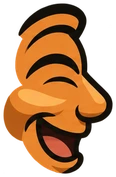
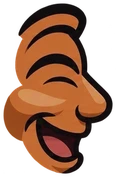
Jummah Dash: Lakri Man browner, triple jump with flips, long bat (BAT button smashes zappers, home-runs rockets, knocks out lasers), bat snaps after 6 hits, he turns back after 24 s
Claude-Session: https://claude.ai/code/session_01YJ1z4udzgwtjsqdwzKAzGp

diff --git a/jummahdash/demo/game.js b/jummahdash/demo/game.js
@@ -1506,16 +1506,19 @@ function vehUpdate(dt) {
   }
   if (veh.k === 'logman') {   // Lakri Man: tap = big leap, tap again in the air = flip leap, hold in the air = windmill arms slow the fall; zappers can't hurt wood
     const press = holding && !veh.held; veh.held = holding; const onG = hero.y >= FLOOR - .5; veh.sq = Math.max(0, (veh.sq || 0) - dt * 5);
-    if (veh.morph < 1) { veh.morph = Math.min(1, veh.morph + dt / 1.35); if (veh.morph >= 1) { veh.face = 'grin'; veh.sq = .8; shake = Math.max(shake, .25); } }
+    if (veh.morph < 1) { veh.morph = Math.min(1, veh.morph + dt / 1.35); if (veh.morph >= 1) { veh.face = 'grin'; veh.sq = .8; shake = Math.max(shake, .25); veh.life = LOG_LIFE; veh.batHP = BAT_HP; veh.swT = -1; } }
+    if (veh.morph >= 1) { veh.life -= dt; if (veh.life < 5 && Math.floor(veh.life * 4) !== Math.floor((veh.life + dt) * 4)) { tone(220 + Math.random() * 80, .07, 'square', .03, .6, MIX && MIX.fx); for (let i = 0; i < 4; i++) sparks.push({ x: hero.x + (Math.random() - .5) * 20, y: hero.y - Math.random() * 70, vx: (Math.random() - .5) * 120, vy: -Math.random() * 120, l: .4, c: '#a8622a' }); if (veh.life < 3) veh.face = 'scared'; }   // owner 23 Nov: he can't stay a log for ever: he starts creaking and cracking, then turns back
+      if (veh.life <= 0) { logRevert(); return; }
+      batTick(dt); }
     else {
-      if (press && onG) { hero.vy = -720; veh.dj = 0; veh.sq = -.6; RUN.jumps++; SFX.whoosh(); tone(220, .12, 'square', .05, 1.6); veh.face = 'laugh'; for (let i = 0; i < 8; i++) dust.push({ x: hero.x - 20 + Math.random() * 40, y: FLOOR, vx: -60 - Math.random() * 90, vy: -Math.random() * 40, r: 3, l: .5 }); }
-      else if (press && !onG && !veh.dj) { veh.dj = 1; hero.vy = Math.min(hero.vy, 0) - 620; veh.flipT = 0; SFX.whoosh(); tone(330, .12, 'square', .05, 1.8); veh.face = 'grin'; } }
-    if (veh.flipT !== undefined) { veh.flipT += dt; if (veh.flipT > .5) veh.flipT = undefined; }
+      if (press && onG) { hero.vy = -720; veh.jn = 1; veh.sq = -.6; RUN.jumps++; SFX.whoosh(); tone(220, .12, 'square', .05, 1.6); veh.face = 'laugh'; for (let i = 0; i < 8; i++) dust.push({ x: hero.x - 20 + Math.random() * 40, y: FLOOR, vx: -60 - Math.random() * 90, vy: -Math.random() * 40, r: 3, l: .5 }); }
+      else if (press && !onG && (veh.jn || 1) < 3) { veh.jn = (veh.jn || 1) + 1; const big = veh.jn === 3; hero.vy = Math.min(hero.vy, 0) - (big ? 560 : 620); veh.flipT = 0; veh.flipD = big ? .62 : .45; veh.flipN = big ? 2 : 1; SFX.whoosh(); tone(big ? 440 : 330, .12, 'square', .05, 1.8); veh.face = big ? 'laugh' : 'grin'; rings.push({ x: hero.x, y: hero.y - 40, t: 0 }); if (big) pops.push({ x: hero.x + 20, y: hero.y - 120, txt: 'TRIPLE!', col: '#ffb04a', t: 0 }); } }   // owner 23 Nov: jump, flip, then a double flip
+    if (veh.flipT !== undefined) { veh.flipT += dt; if (veh.flipT > (veh.flipD || .45)) veh.flipT = undefined; }
     veh.spin = !onG && holding && veh.morph >= 1 && hero.vy > -100 ? (veh.spin || 0) + dt * 22 : 0;
     let g = 1900; if (veh.spin) { g = 600; if (hero.vy > 140) hero.vy = 140; if (Math.random() < dt * 8) tone(160 + Math.random() * 40, .05, 'triangle', .02, 1.4, MIX && MIX.fx); }
     hero.vy += g * dt; hero.y += hero.vy * dt; if (hero.y - 90 < CEIL) { hero.y = CEIL + 90; hero.vy = Math.max(0, hero.vy); }
     if (hero.y >= FLOOR) { if (hero.vy > 250 && veh.morph >= 1) { veh.sq = Math.min(1, hero.vy / 800); shake = Math.max(shake, .1); tone(110, .14, 'triangle', .08); veh.face = 'smile'; for (let i = 0; i < 8; i++) dust.push({ x: hero.x + (Math.random() - .5) * 50, y: FLOOR, vx: (Math.random() - .5) * 160, vy: -Math.random() * 40, r: 3, l: .5 }); }
-      hero.y = FLOOR; hero.vy = 0; veh.dj = 0; }
+      hero.y = FLOOR; hero.vy = 0; veh.jn = 0; }
     if (onG) veh.ph += dt * (speed / 26); hero.rot = 0; veh.ft = (veh.ft || 0) - dt; if (veh.ft <= 0 && onG && veh.morph >= 1) { veh.ft = 2 + Math.random() * 2; veh.face = ['smile', 'grin', 'smug', 'smile'][Math.random() * 4 | 0]; }
     return;
   }
@@ -1679,13 +1682,31 @@ function vehCrash() {
   pops.push({ x: hero.x, y: hero.y - 70, txt: { tuktuk: 'TUK-TUK GONE!', carpet: 'CARPET GONE!', kabootar: 'KABOOTAR FLEW OFF!', sandals: 'SANDALS SNAPPED!', mech: 'MECH WRECKED!', logman: 'SPLINTERED!' }[k], col: '#ffd75a', t: 0 });
 }
 const LMS = .096;   // Lakri Man scale: a bit taller than the hero (owner 23 Nov)
+const LOG_LIFE = 24, BAT_HP = 6, BAT_CD = .45;
+function batAngle() { if (!veh || (veh.swT == null) || veh.swT < 0) return null; const k = veh.swT / .34; if (k < .25) return 2.4 + k / .25 * .5; const f = (k - .25) / .45; if (f < 1) return 2.9 - f * f * 4.5; return -1.6 + Math.min(1, (k - .7) / .3) * 1.6; }   // wind up behind the head, whip round, follow through
+function batSwing() { if (!veh || veh.k !== 'logman' || veh.morph < 1 || (veh.batHP || 0) <= 0 || state !== 'play' || paused || (veh.batCD || 0) > 0) return; veh.swT = 0; veh.batCD = BAT_CD; veh.hitDone = 0; veh.face = 'angry'; SFX.whoosh(); tone(200, .1, 'triangle', .04, 2.4, MIX && MIX.fx); }
+function batTick(dt) { if (veh.batCD > 0) veh.batCD -= dt; if (veh.swT < 0) return; veh.swT += dt; if (veh.swT > .34) { veh.swT = -1; return; }
+  if (veh.swT < .08 || veh.swT > .26) return;   // the bat's sweet spot is on the forward whip
+  const q = LMS * (window.LOGMAN_H || 685) / 685, bx0 = hero.x - 6, bx1 = hero.x + 95 * q, by0 = hero.y - 105 * q, by1 = hero.y - 8;
+  const inBox = (x, y, m = 0) => x > bx0 - m && x < bx1 + m && y > by0 - m && y < by1 + m; let hit = 0;
+  obs.forEach(o => { if (o.honk) return;
+    if (o.type === 'zap') { const ca = Math.cos(o.ang), sa = Math.sin(o.ang), hl = o.len / 2; let near = false; for (let u = -1; u <= 1; u += .25) if (inBox(o.x + ca * hl * u, o.y + sa * hl * u, 12)) near = true; if (near) { o.honk = 1; wreckZap(o); batHit(o.x, o.y, 'SMASHED!'); hit++; } }
+    else if (o.type === 'rocket' && o.v && !o.defl && inBox(o.x, o.y, 22)) { o.defl = 1; o.v = -(speed + 560); o.vy = -260 - Math.random() * 160; o.rot = Math.PI; o.spin = (Math.random() < .5 ? -1 : 1) * (7 + Math.random() * 4); batHit(o.x, o.y, 'HOME RUN!'); hit++; }
+    else if (o.type === 'laser' && (o.ph === 'fire' || o.ph === 'warn') && o.y > by0 - 10 && o.y < by1 + 10) { o.honk = 1; wreckLaser(o); batHit(hero.x + 60 * q, o.y, 'BATTED!'); hit++; } });
+  if (hit) { veh.batHP -= 1; if (veh.batHP <= 0) { pops.push({ x: hero.x + 30, y: hero.y - 140, txt: 'BAT SNAPPED!', col: '#ff8a4a', t: 0 }); tone(300, .2, 'square', .06, .4, MIX && MIX.fx); POL.chunks(['#c06a2c', '#8a4a1c', '#e09050']); veh.face = 'sad'; } } }
+function batHit(x, y, txt) { veh.face = 'grin'; shake = Math.max(shake, .14); HITT = .06; tone(180, .12, 'square', .07, .5, MIX && MIX.fx); tone(900, .06, 'square', .05, .6, MIX && MIX.fx); hornPay(x, y, txt);
+  for (let i = 0; i < 14; i++) sparks.push({ x, y, vx: 80 + Math.random() * 280, vy: (Math.random() - .5) * 260, l: .4, c: ['#ffffff', '#ffd75a', '#c06a2c'][i % 3] }); }
+function logRevert() {   // back to normal: he splinters back into the hero with a puff, never a death
+  const x = hero.x, y = hero.y; POL.chunks(['#c06a2c', '#8a4a1c', '#e09050', '#5a2a0a']); for (let i = 0; i < 12; i++) steam.push({ x: x + (Math.random() - .5) * 40, y: y - 20 - Math.random() * 50, vx: (Math.random() - .5) * 140, vy: -30 - Math.random() * 60, r: 4 + Math.random() * 4, l: .6, l0: .7 });
+  flashT = .12; flashCol = '255,200,140'; tone(392, .12, 'square', .05); setTimeout(() => tone(262, .2, 'square', .05), 110); pops.push({ x, y: y - 100, txt: 'BACK TO NORMAL!', col: '#ffd75a', t: 0 });
+  veh = null; inv = 1.6; hero.vy = -380; hero.ground = false; }
 function logZap(o) { if (Math.random() < .5) sparks.push({ x: hero.x + (Math.random() - .5) * 30, y: hero.y - 40 - Math.random() * 30, vx: (Math.random() - .5) * 220, vy: (Math.random() - .5) * 220, l: .25, c: Math.random() < .5 ? '#fff6a8' : '#ffffff' });
   if (!o.logP) { o.logP = 1; veh.face = 'smug'; pops.push({ x: hero.x + 20, y: hero.y - 110, txt: "WOOD DON'T CONDUCT!", col: '#ffb04a', t: 0 }); tone(1600, .06, 'square', .03, .5, MIX && MIX.fx); } }
 const LMC = {};   // the hero split for the mutation: body without the cooker, and the cooker on its own (art/cookmask.webp)
 function heroSplit(f) { const key = (heroImg.src || '') + ':' + f; if (LMC[key]) return LMC[key]; if (!COOKMASK.complete || !COOKMASK.naturalWidth || !heroImg.naturalWidth) return null;
   const cw = HW * HX4, ch = HH0 * HX4, mk = op => { const c = document.createElement('canvas'); c.width = cw; c.height = ch; const g = c.getContext('2d'); g.drawImage(heroImg, f * cw, 0, cw, ch, 0, 0, cw, ch); g.globalCompositeOperation = op; g.drawImage(COOKMASK, f * cw, 0, cw, ch, 0, 0, cw, ch); return c; };
   return LMC[key] = { body: mk('destination-out'), cook: mk('destination-in') }; }
-function drawLogVeh() { const x = hero.x, y = hero.y, m = veh.morph || 0, onG = y >= FLOOR - .5, st = { ph: veh.ph, air: onG ? 0 : 1, face: veh.face, t, spin: veh.spin || 0, flip: veh.flipT !== undefined ? veh.flipT / .5 * Math.PI * 2 : 0, squash: veh.sq || 0 };
+function drawLogVeh() { const x = hero.x, y = hero.y, m = veh.morph || 0, onG = y >= FLOOR - .5, st = { ph: veh.ph, air: onG ? 0 : 1, face: veh.face, t, spin: veh.spin || 0, flip: veh.flipT !== undefined ? veh.flipT / (veh.flipD || .45) * Math.PI * 2 * (veh.flipN || 1) : 0, bat: (veh.batHP || 0) > 0, swing: batAngle(), swingE: 0, squash: veh.sq || 0 };
   ctx.fillStyle = 'rgba(30,10,30,.25)'; ctx.beginPath(); ctx.ellipse(x, FLOOR + 1, 16, 3, 0, 0, 7); ctx.fill();
   if (m >= 1) { drawLogman(ctx, x, y, LMS, st); return; }
   // ---- the mutation (owner 23 Nov: like the Hulk): he shakes and turns orange, the cooker drops off, his body stretches and his head is squashed into the log, then the log man bursts out ----
@@ -2339,8 +2360,11 @@ $('bShield').addEventListener('touchstart', e => { e.preventDefault(); e.stopPro
 $('bDash').addEventListener('pointerdown', e => { e.preventDefault(); e.stopPropagation(); steamDash(); });
 $('bDash').addEventListener('touchstart', e => { e.preventDefault(); e.stopPropagation(); }, { passive: false });
 function dashBtn() { const b = $('bDash'); const on = state === 'play' && !veh && !boost && !hero.dead && !REVEAL && !(FM && FM.ph); b.classList.toggle('hide', !on); if (!on) return; b.style.setProperty('--cd', ((1 - dashCD / DASH_CD) * 100).toFixed(1) + '%'); b.classList.toggle('ready', dashCD <= 0); b.classList.toggle('act', hero.dashT > 0); }
-window.addEventListener('keydown', e => { if (e.code === 'KeyS') shHold = true; if (e.code === 'KeyD' || e.code === 'ArrowRight') steamDash(); if (e.code === 'KeyH' || e.code === 'KeyD') hornBlast(); });
+window.addEventListener('keydown', e => { if (e.code === 'KeyS') shHold = true; if (e.code === 'KeyD' || e.code === 'ArrowRight') steamDash(); if (e.code === 'KeyH' || e.code === 'KeyD') hornBlast(); if (e.code === 'KeyB' || e.code === 'KeyS') batSwing(); });
 $('bHorn').addEventListener('pointerdown', e => { e.preventDefault(); e.stopPropagation(); hornBlast(); });
+$('bBat').addEventListener('pointerdown', e => { e.preventDefault(); e.stopPropagation(); batSwing(); const b = $('bBat'); b.classList.add('act'); setTimeout(() => b.classList.remove('act'), 120); });
+$('bBat').addEventListener('touchstart', e => { e.preventDefault(); e.stopPropagation(); }, { passive: false });
+function batBtn() { const b = $('bBat'); if (!b) return; const on = state === 'play' && !hero.dead && veh && veh.k === 'logman' && veh.morph >= 1 && (veh.batHP || 0) > 0 && !REVEAL; b.classList.toggle('hide', !on); if (!on) return; b.style.setProperty('--cd', ((1 - Math.max(0, veh.batCD || 0) / BAT_CD) * 100).toFixed(1) + '%'); b.classList.toggle('ready', (veh.batCD || 0) <= 0); }
 $('bHorn').addEventListener('touchstart', e => { e.preventDefault(); e.stopPropagation(); }, { passive: false }); window.addEventListener('keyup', e => { if (e.code === 'KeyS') shHold = false; });
 tap('bSet', openSettings); tap('setClose', () => $('setBox').classList.add('hide')); $('setBox').addEventListener('pointerdown', e => { e.stopPropagation(); if (e.target.id === 'setBox') $('setBox').classList.add('hide'); });
 [...$('setSnd').children].forEach(b => b.addEventListener('pointerdown', e => { e.stopPropagation(); setSound(b.dataset.v === '1'); }));
@@ -2500,7 +2524,7 @@ tap('again', start); tap('ovHome', goHome);
 tap('eidiGo', () => { if (POSTBANK) { bankedDone(); return; } if ($('eidiGo').dataset.life) revive(); else { $('eidiBox').classList.add('hide'); eidi = 0; showOver(); } });
 tap('ovShare', () => share(`I flew ${Math.floor(dist / 10)}m and grabbed £${coins} trying to get to Jummah 😂 Beat that on Jummah Dash:`));
 tap('snd', () => setSound(!sndOn));
-const noHold = el => el && el.closest && el.closest('.btn,#home,.sheet,#over,#eidiBox,#pz,#rot,#bShield,#bDash,#bHorn');
+const noHold = el => el && el.closest && el.closest('.btn,#home,.sheet,#over,#eidiBox,#pz,#rot,#bShield,#bDash,#bHorn,#bBat');
 window.addEventListener('pointerdown', e => { if (noHold(e.target)) return; holding = true; audio(); swipe = { x: e.clientX, y: e.clientY, t: performance.now(), id: e.pointerId, done: 0 }; });
 let swipe = null;   // swipe right = steam dash
 window.addEventListener('pointermove', e => { if (e.pointerType === 'touch' || !swipe || swipe.done || e.pointerId !== swipe.id) return; const dx = e.clientX - swipe.x, dy = e.clientY - swipe.y, dt2 = performance.now() - swipe.t;
@@ -2817,7 +2841,7 @@ const POL = (() => { const P = { fx: [], flock: [], nextFlock: 4, streak: 0, str
       mT += st; mStep++; } };
   return P; })();
 window.__pol = POL;
-function frame(now) { const dt = Math.min(.05, (now - last) / 1000); last = now; shieldBtn(); dashBtn(); hornBtn(); SLOW = veh && veh.k === 'mech' && veh.su < 1.05 ? .12 : Math.min(1, SLOW + dt * 3); if (FM) { if (!paused) { FMS.step(dt); if (FM && FM.ph === 'out' && FM.back) update(dt); } FMS.frame(); requestAnimationFrame(frame); return; } if (REVEAL && !paused) { revealTick(dt); holding = false; } else if (!paused) { let k = 1; if (HITT > 0) { HITT -= dt; k = 0; } else if (SMT > 0) { SMT -= dt; k = .35; } update(dt * SLOW * k); } else holding = false; draw(); if (bakeQ.length) bakeOne(); requestAnimationFrame(frame); }
+function frame(now) { const dt = Math.min(.05, (now - last) / 1000); last = now; shieldBtn(); dashBtn(); hornBtn(); batBtn(); SLOW = veh && veh.k === 'mech' && veh.su < 1.05 ? .12 : Math.min(1, SLOW + dt * 3); if (FM) { if (!paused) { FMS.step(dt); if (FM && FM.ph === 'out' && FM.back) update(dt); } FMS.frame(); requestAnimationFrame(frame); return; } if (REVEAL && !paused) { revealTick(dt); holding = false; } else if (!paused) { let k = 1; if (HITT > 0) { HITT -= dt; k = 0; } else if (SMT > 0) { SMT -= dt; k = .35; } update(dt * SLOW * k); } else holding = false; draw(); if (bakeQ.length) bakeOne(); requestAnimationFrame(frame); }
 requestAnimationFrame(frame);
 window.__jd = { zap: (x, y, len = 120, ang = Math.PI / 2) => obs.push({ type: 'zap', x, y, len, ang, spin: 0, seed: 1 }), horn: () => hornBlast(), get hornCD() { return hornCD; }, get fm() { return FM; }, get speed() { return speed; }, get coinList() { return coinList; }, get W() { return W; }, get gifts() { return gifts; }, get runT() { return runT; }, veh: k => startVehicle(k), laser: () => [CEIL + 40, (CEIL + FLOOR) / 2].forEach((y, i) => obs.push({ type: 'laser', x: W / 2, y, ph: 'in', pt: 0, slide: 0, d: i * .12 })), eidi: n => { eidi = n; }, kill: w => die(w), gift: (k, r, x, y) => gifts.push({ k, ride: r, x: x || W * .6, y: y || 200, b: 0 }), get state() { return state; }, start, hero, get obs() { return obs; }, spawnRocket: () => obs.push({ type: "rocket", x: W + 40, y: hero.y - 30, warn: 1.5, lock: 0, v: 0 }), setHold: v => holding = v, get dist() { return dist; }, mis: (s, c) => { RUN.steamed = s; coins = c; }, get npcs() { return npcs; }, boost: m => startBoost(m), get SHOP() { return SHOP; }, bc: (k, kd) => buildingCanvas(kd || "lm", k), carSprite: (k, ci, f) => carSprite(k, ci, f), queue: k => deck.unshift([k]), street: () => street, npc: x => spawnNpc(x), car: (x, k, l) => spawnCar(x, k, false, l), get STREET() { return STREET; } };
 })();

diff --git a/jummahdash/demo/game.html b/jummahdash/demo/game.html
@@ -383,6 +383,13 @@ canvas{position:absolute;inset:0;width:100%;height:100%;display:block}
 @keyframes hbCool{from{width:100%}to{width:55%}}
 .hsmoke{position:absolute;top:-2px;width:10px;height:10px;border-radius:50%;background:rgba(200,195,205,.75);animation:hsm 1.1s ease-out forwards;pointer-events:none}
 @keyframes hsm{0%{transform:translate(0,0) scale(.5);opacity:.85}100%{transform:translate(-10px,-26px) scale(2.2);opacity:0}}
+
+#bBat{position:absolute;left:calc(var(--sl,0px) * .6 + 6px);bottom:37px;width:96px;height:96px;border-radius:50%;border:2px solid rgba(255,190,120,.85);background:radial-gradient(circle at 50% 35%,rgba(230,140,70,.4),rgba(90,40,10,.4) 70%);-webkit-backdrop-filter:blur(4px);backdrop-filter:blur(4px);display:flex;flex-direction:column;align-items:center;justify-content:center;gap:1px;color:#fff;pointer-events:auto;z-index:4;transition:transform .1s,opacity .2s}
+#bBat svg{width:44px;height:44px}#bBat b{font:700 14px Oswald,Mont,sans-serif;letter-spacing:1.5px;text-shadow:0 0 6px rgba(255,150,60,.95)}
+#bBat .ring{position:absolute;inset:-5px;border-radius:50%;background:conic-gradient(rgba(255,190,120,.95) var(--cd,100%),rgba(255,255,255,.12) 0);-webkit-mask:radial-gradient(circle,transparent 58%,#000 59%,#000 66%,transparent 67%);mask:radial-gradient(circle,transparent 58%,#000 59%,#000 66%,transparent 67%)}
+#bBat:not(.ready){opacity:.65}#bBat.act{transform:scale(.88)}
+#bBat.hide{opacity:0;visibility:hidden;transform:scale(.6);pointer-events:none}
+@media (max-height:430px){#bBat{width:82px;height:82px;bottom:22px}}
 </style>
 </head>
 <body>
@@ -390,7 +397,8 @@ canvas{position:absolute;inset:0;width:100%;height:100%;display:block}
 <canvas id="cv"></canvas>
 <div id="ui">
   <div class="hud" id="hud"><div id="dist">0m</div><div class="c"><span class="coin">£</span><span id="coins">£0</span></div><div class="heatBar" id="heatBar"><div class="hb"><div class="hf"></div></div><span id="heatTxt">COOKER</span></div></div>
-  <button id="bHorn" class="hide" aria-label="Horn"><span class="ring"></span><svg viewBox="0 0 48 34"><ellipse cx="7" cy="17" rx="6" ry="5.5" fill="#2a1a10" stroke="#ffe7a0" stroke-width="1.4"/><path d="M12 15.5h12l9-8v19l-9-8H12z" fill="#ffd36a" stroke="#fff3c4" stroke-width="1.4" stroke-linejoin="round"/><path d="M37 11q4 6 0 12M41 7q7 10 0 20" fill="none" stroke="#fff" stroke-width="2.2" stroke-linecap="round"/></svg><b>HORN</b></button>
+  <button id="bBat" class="hide" aria-label="Swing the bat"><span class="ring"></span><svg viewBox="0 0 40 40"><g stroke="#1a1024" stroke-width="2.4" stroke-linejoin="round" stroke-linecap="round"><path d="M9 33 L27 9 Q31 5 34 8 Q36 11 32 15 L13 35 Z" fill="#c27536"/><path d="M8 35 L11 32" stroke-width="4"/></g><path d="M29 9 L16 26" stroke="#e8a060" stroke-width="1.6" stroke-linecap="round"/></svg><b>BAT</b></button>
+<button id="bHorn" class="hide" aria-label="Horn"><span class="ring"></span><svg viewBox="0 0 48 34"><ellipse cx="7" cy="17" rx="6" ry="5.5" fill="#2a1a10" stroke="#ffe7a0" stroke-width="1.4"/><path d="M12 15.5h12l9-8v19l-9-8H12z" fill="#ffd36a" stroke="#fff3c4" stroke-width="1.4" stroke-linejoin="round"/><path d="M37 11q4 6 0 12M41 7q7 10 0 20" fill="none" stroke="#fff" stroke-width="2.2" stroke-linecap="round"/></svg><b>HORN</b></button>
   <button id="bDash" class="hide" aria-label="Dash"><span class="ring"></span><svg viewBox="0 0 40 40" width="28" height="28"><path d="M6 14h14M3 20h17M6 26h14" stroke="#cfeaff" stroke-width="2.6" stroke-linecap="round"/><path d="M22 10l12 10-12 10z" fill="#ffffff"/></svg><b>DASH</b></button>
   <button id="bShield" class="hide" aria-label="Shield"><span class="ring"></span><svg viewBox="0 0 40 40" width="30" height="30"><path d="M20 3l14 5v10c0 9-6 15.5-14 19C12 33.5 6 27 6 18V8z" fill="rgba(255,90,80,.35)" stroke="#ffd0c8" stroke-width="2.4" stroke-linejoin="round"/><path d="M20 9v23M12 15l8 4 8-4M12 23l8 4 8-4" stroke="#ffb0a6" stroke-width="1.4" fill="none" opacity=".8"/></svg><b>SHIELD</b></button>
   <div id="pz" class="hide"><b>PAUSED</b><span>TAP TO CARRY ON</span></div>
@@ -596,8 +604,8 @@ var t=setInterval(function(){var lt=document.getElementById('loadTxt');if(!q&&lt
 <script src="hd/cars_v3.js?h=51ebab1eae"></script>
 <script src="hd/landmarks_hd.js?h=7d60d75c5a"></script>
 <script src="hd/mech.js?h=e8ac3de068"></script>
-<script src="hd/logman.js?h=96ac44945a"></script>
-<script src="game.js?h=8ae4693a10"></script>
+<script src="hd/logman.js?h=486a9d76da"></script>
+<script src="game.js?h=de93c098bb"></script>
 <script src="hd/tins.js?h=aa419cd2f9"></script>
 <script src="jd-extra.js?h=371d33a5de"></script>
 <script src="/flappy/carreq.js?v=1"></script>

diff --git a/jummahdash/demo/sw.js b/jummahdash/demo/sw.js
@@ -1,15 +1,15 @@
 /* Jummah Dash: keeps the whole game on the phone. First visit downloads it once;
    after that it opens from the phone, and an update only downloads the files that changed. */
-const BUILD = '20261123200516';
+const BUILD = '20261123200916';
 const FILES = {
 "jd-extra.js": "371d33a5de",
 "hd/landmarks_hd.js": "7d60d75c5a",
 "hd/cars_v3.js": "51ebab1eae",
 "hd/mech.js": "e8ac3de068",
-"hd/logman.js": "96ac44945a",
+"hd/logman.js": "486a9d76da",
 "hd/tins.js": "aa419cd2f9",
 "hd/foodbank.png": "8f4400d5e6",
-"game.js": "8ae4693a10",
+"game.js": "de93c098bb",
 "landmarks.js": "4649570284",
 "vehicles.js": "32fdac20ce",
 "manifest.webmanifest": "f337af2b13",
@@ -182,30 +182,31 @@ const FILES = {
 "art/jalebi.webp": "35f7aa9f66",
 "art/icon_carpet.webp": "d79b0ad5d2",
 "art/cookmask.webp": "7ac58ac59b",
-"art/logman/body.webp": "c64a9c5fe1",
-"art/logman/f_farm.webp": "1c89ea21c5",
-"art/logman/f_foot.webp": "461641ebfb",
-"art/logman/f_hand.webp": "585c86f82f",
-"art/logman/f_shin.webp": "a3bcb31dd2",
-"art/logman/f_thigh.webp": "cda36cd7a6",
-"art/logman/f_uarm.webp": "c02cb02d04",
-"art/logman/face_angry.webp": "996f4a3383",
-"art/logman/face_frown.webp": "590734c232",
-"art/logman/face_grin.webp": "e482b53f53",
-"art/logman/face_laugh.webp": "82a56f9e2f",
-"art/logman/face_neutral.webp": "0e4165171b",
-"art/logman/face_sad.webp": "78b41e4666",
-"art/logman/face_scared.webp": "9bee8ab7a3",
-"art/logman/face_shock.webp": "8509559069",
-"art/logman/face_smile.webp": "5f0810a145",
-"art/logman/face_smug.webp": "c29f4e6417",
+"art/logman/body.webp": "ffbec748df",
+"art/logman/f_farm.webp": "f79b31226f",
+"art/logman/f_foot.webp": "73b8a83016",
+"art/logman/f_hand.webp": "6a90b04b9b",
+"art/logman/f_shin.webp": "6f29c5d00f",
+"art/logman/f_thigh.webp": "956a3ec7bb",
+"art/logman/f_uarm.webp": "9d97350302",
+"art/logman/face_angry.webp": "90762bf5c1",
+"art/logman/face_frown.webp": "def1a25fc5",
+"art/logman/face_grin.webp": "d711750bca",
+"art/logman/face_laugh.webp": "7e782dcfff",
+"art/logman/face_neutral.webp": "b4ccc9e860",
+"art/logman/face_sad.webp": "3aafa7b52d",
+"art/logman/face_scared.webp": "f214ffc731",
+"art/logman/face_shock.webp": "aefe1e635c",
+"art/logman/face_smile.webp": "8a1e07902a",
+"art/logman/face_smug.webp": "e0c5698dd7",
 "art/logman/meta.json": "2b6bc73b55",
-"art/logman/n_farm.webp": "16cba9cb44",
-"art/logman/n_foot.webp": "45a3ac4285",
-"art/logman/n_hand.webp": "6380358a70",
-"art/logman/n_shin.webp": "0be449b0b6",
-"art/logman/n_thigh.webp": "1b0bdf3eb1",
-"art/logman/n_uarm.webp": "6f8b53d713",
+"art/logman/n_bat.webp": "6b8f7fa528",
+"art/logman/n_farm.webp": "5d3abca8a9",
+"art/logman/n_foot.webp": "8a1865a6fc",
+"art/logman/n_hand.webp": "bbb764c27c",
+"art/logman/n_shin.webp": "b907b5c30a",
+"art/logman/n_thigh.webp": "21b3d56a14",
+"art/logman/n_uarm.webp": "6e2c04afcf",
 "art/hero3s_classic.webp": "522b3e2d9c",
 "art/hero3s_eid.webp": "f6e3b5f896",
 "art/hero3s_luton.webp": "9d40f76781",

diff --git a/jummahdash/demo/hd/logman.js b/jummahdash/demo/hd/logman.js
@@ -3,16 +3,16 @@
    st = { ph: run phase, air: 0..1, face: 'smile'..., spin: windmill arms, flip: rotation, squash } */
 (() => {
   const P = {}, names = ['body', 'n_uarm', 'f_uarm', 'n_farm', 'f_farm', 'n_hand', 'f_hand', 'n_thigh', 'f_thigh', 'n_shin', 'f_shin', 'n_foot', 'f_foot',
-    'face_neutral', 'face_smile', 'face_grin', 'face_laugh', 'face_shock', 'face_scared', 'face_frown', 'face_angry', 'face_smug', 'face_sad'];
+    'n_bat', 'face_neutral', 'face_smile', 'face_grin', 'face_laugh', 'face_shock', 'face_scared', 'face_frown', 'face_angry', 'face_smug', 'face_sad'];
   names.forEach(n => { const im = new Image(); im.src = 'art/logman/' + n + '.webp?v=1'; P[n] = im; });
   // joints in each part's own picture (art pixels): [top joint x, y, bottom joint x, y]
-  const J = { uarm: [40, 13, 17.5, 83], farm: [19, 5.5, 19, 78], hand: [26.5, 4.5], thigh: [22.5, 5, 19, 80], shin: [21.5, 5, 19, 85], foot: [24.5, 5] };
+  const J = { uarm: [40, 13, 17.5, 83], farm: [19, 5.5, 19, 78], hand: [26.5, 4.5], bat: [16, 7], thigh: [22.5, 5, 19, 80], shin: [21.5, 5, 19, 85], foot: [24.5, 5] };
   const BODY = { hipN: [66, 468], hipF: [88, 466], shN: [44, 272], shF: [58, 266], face: [136, 152] };
   const LEG = 75 + 80 + 52;   // hip to sole when straight
   const ok = im => im.complete && im.naturalWidth;
   function seg(g, im, jx, jy, ang) { g.rotate(ang); if (ok(im)) g.drawImage(im, -jx, -jy); }
   // joint sizes (outer radius incl. outline, art px) where part i meets part i+1
-  const JR = { uarm: 13.5, farm: 12.5, thigh: 15, shin: 13 }, FILL = { n: '#f5862a', f: '#cc6418' }, INK = '#1d120c';
+  const JR = { uarm: 13.5, farm: 12.5, thigh: 15, shin: 13 }, FILL = { n: '#d16c2a', f: '#ad4f1b' }, INK = '#1d120c';
   function limb(g, side, parts, angs) {   // a chain of parts hanging from the current origin; owner 23 Nov: no outlines across the joints, one clean outline round the whole limb
     const base = g.getTransform(), joints = [];
     for (let i = 0; i < parts.length; i++) { const k = parts[i], j = J[k]; g.rotate(angs[i]); if (j.length > 2) { g.translate(j[2] - j[0], j[3] - j[1]); joints.push([g.getTransform(), JR[k] || 12]); } }
@@ -38,6 +38,6 @@
     at(BODY.hipN, () => limb(g, 'n', ['thigh', 'shin', 'foot'], legA(0)));
     g.save(); g.translate(0, 0); if (ok(P.body)) g.drawImage(P.body, 0, 0); g.restore();
     const fi = P['face_' + (st.face || 'smile')] || P.face_smile; if (ok(fi)) g.drawImage(fi, BODY.face[0] - fi.naturalWidth / 2, BODY.face[1] - fi.naturalHeight / 2);
-    at(BODY.shN, () => limb(g, 'n', ['uarm', 'farm', 'hand'], armA(0)));
+    at(BODY.shN, () => limb(g, 'n', ['uarm', 'farm', st.bat ? 'bat' : 'hand'], st.swing != null ? [st.swing, st.swingE || 0, 0] : armA(0)));
     g.restore(); };
 })();

diff --git a/CLAUDE.md b/CLAUDE.md
@@ -158,7 +158,7 @@ Owner: Summar (SMR Graphics / SMR Digital / SMR Plates, Luton). He edits the sit
 - 23 Nov (live): Hoover Mech ride (hd/mech.js drawMech, owner's own exosuit design, no face but one red laser eye + mouth slit, no white anywhere; MCH 1.08 in game.js): Transformer-style suit-up in slow motion (MECH_LOCKS clank + sparks), stomping high-knee walk that never slides (MECH_GAIT), both arms jointed (ball shoulder, elbow piston, cuff), backpack hose plugged into the near forearm; hold = foot thrusters fly like the jetpack; heavy landings knock people over; hose = coin magnet. SHIELD button bottom-left (#bShield, hold to keep it up, battery 2.5 s, recharges 3.5 s from empty as soon as you let go): red holographic hex shield, rockets bounce off (DEFLECTED!), lasers blocked; without it lasers/rockets wreck the mech, zappers only crackle. In the mech only rockets spawn (singles/pairs/volleys aimed at the suit). Skill systems: jetpack overheat (gauge beside him, 2.8 s solid hold = OVERHEAT + 1.1 s cut-out), steam dash (DASH button bottom-left #bDash or swipe right/D key; 2.2 s recharge, passes through hazards = THREADED! +£5), near-miss boost (CLOSE! xN, coins worth xN up to x5, 3 s window, speed burst). Ride bag: every ride twice, Flappy Kabootar once (rarer), never the same twice running; first gift box at 20 s is random too. Convoy: first within the first 90 s, then every 90-150 s. Outfits redrawn in the v3 style (hero_v3.js outfit param: eid cream + gold, luton orange/navy, puffer navy quilted, moroccan striped djellaba with hood; build_v3.py renders all five sheets; deploy.py hashes each). Demo modes: ?mechdemo=1 (every box is the mech), ?ridedemo=1 (every ride except Flappy in turn, boxes every ~1000 units). Claude artifact demo: 601d658b-cde5-4fb0-b20c-aee61a7de9b7 ("Jummah Dash – power-ups demo").
 - 23 Nov later (live): Billi the Cat gadget (id 'cat', £3,000; CAT in game.js, works like Flash the dog in Jetpack Joyride, drawn in the hero's style at his scale FS): orange tabby trots along the pavement with him (IK legs, diagonal pairs, planted paws slide with the street), jumps for low coins, trips about 1 in 4 people it runs into, rides along on every power-up (tuk-tuk, carpet, Flappy pigeon, mech shoulder, uncle's Corolla) pulling coins in from close by; near ear in front of the head, far ear smaller behind. Puffer = waist-length navy jacket over the thobe; Luton outfit = full kit (orange shirt, navy shorts, navy leggings, orange boots). Yaris wheels .87 (WSZ). DASH button back to the old style and spot, 74px (63 on short screens). Shop outfit icons skip a picture that hasn't loaded (a 0-byte hero3_puffer.webp had stopped the outfits list after Classic; rebuilt). Test hook window.__spawn(key, x).
 - 23 Nov (afternoon, live 23 Nov ~15:00 after a full test pass): power-ups now work like the owner's JJ2 recording: the ride token spins like a coin with a holographic rainbow frame; grabbing it = white flash, the game freezes under a title card (startReveal/drawReveal: teal energy band with flickering jagged edges, the ride's picture from art/card/<k>.webp (owner's ChatGPT art: mech, carpet, sandals, kabootar; tuk-tuk uses its icon), POWER-UP! + name, arrow streak; 1.75 s), then the ride's parts fly in from off screen with white streaks and lock on (veh.asm, 3 pieces, clank + sparks, final white flash; the mech keeps its own suit-up and skips its old banner). Hoover Mech jumps like Big Stomper (timed from the recording): tap = crouch then blast-off (vy -1500, SFX.stompJump: filtered-noise roar + low boom), up in ~0.23 s, ~0.25 s hang, fast drop; hold in the air = thrusters hover/climb; landing = squash, dust ring, thudBig + clank, shake, people knocked over. Ammi's Tin (end-of-run biscuit tin game, hd/tins.js + art/tin/*.webp from the owner's ChatGPT sprites: open tin, lid, lid flying, contents sewing/few/lots/eidi/keys/jackpot/gift; contentsS draws them smaller and lower, clipped to the opening with only a low mound above the back rim and the inner wall shading over the back, so they sit down in the tin): tins float in runs (spinning tilt, gold ring, sparkles, shine), fly to a tin counter under the money (#tinHud, art/tin/closed.webp); each tin = one round: 3 tins (R × .82, owner 23 Nov), the jackpot tin peeks, SHUFFLE! (gold pill button with a shuffle icon, pulse + shine sweep; ▶ icon for OPEN NEXT TIN / CARRY ON via data-k), quick shuffle (5 swaps), pick one, camera moves in (every phase sped up by TSPD in tins.js, owner 23 Nov: shuffle, see the prize, see what you missed, next), money wins = ka-ching + coins pouring out + confetti, lid prises off, contents pop, the other two open. Prizes: jackpot tin £300 / £150 / head start 1000m / 2 second chances / a free jugaad; others mostly the sewing kit, sometimes £25/£50, a second chance or head start 500m. ?tindemo=1 = tins often; window.__tins(n). Shop tab GADGETS renamed JUGAAD; new jugaad HOT JALEBI (£1,800: some coin trails become jalebis worth £3; owner's jalebi art art/jalebi.webp). Rockets silver with a blue nose/fins and one blue + one white stripe. Then (same afternoon): DASH button left of the SHIELD (#bShield moved to left +116); on the carpet he stays his running size (HS); power-up tokens stay fixed to the street like JJ's: a spinning hologram tile (see-through SMR Digital blue→violet→pink face with moving rainbow bands and scan lines, polished metal rim whose thickness is the rim repeated behind it as it turns, glint running round the rim); tuk-tuk title card = owner's render art/card/tuktuk.webp; carpet token icon = owner's carpet render art/icon_carpet.webp (rideIcon); Billi is built into the rides: on a power-up he leaps onto it in an arc (CAT.jmp, .5 s), lands with a squash, then the ride draws him itself in a lying pose (CAT.lie(g, rideScale, {hang|wind}), CAT.built()): Hoover Mech = lying on the shoulder pad, paws draped over the front, tail down the back (drawMech o.cat hook after the pad); carpet = lying on the cloth riding its ripple (carpetWave()); tuk-tuk = flat on the roof, tail streaming; head start / pigeon = the same lying pose at the ride spot; only Ammi's tin floats, in a wave you chase, with a soft gold glow hugging it, a shine that sweeps over the round tin only (masked to the tin's pixels on a small canvas TINSH), and four motion lines trailing to the left that stretch and shrink on their own beats and bend along the path the tin just floated through, with little speed dashes drifting off the ends (no ring; ?tindemo tins every ~900-1400 units); Billi walks in at the start (only sits once you're down); Billi runs at a gallop (knees on the front, hocks behind on the back legs, faster with the game); DASH, SHIELD and HORN buttons all the same 74px (63 on short screens) in exactly the same spot, left calc(var(--sl) * .6 + 6px), 37px up; distance/money HUD left calc(var(--sl) * .6 + 10px); Flappy Kabootar ride only in every other ride bag (jd_fkbag) and its coins are £10 each; carpet flies in under him in one piece, sandals rise to his feet; gravity sandals = chunky brown sandals with glowing green straps and a thick neon green sole, drawn into small sheets art/hero3s_<outfit>.webp (run0-5 + glide0; heroV3.sandal, `python3 hd/build_v3.py sandals`). Demo artifact has Billi the cat equipped. Tuk-tuk HORN BLAST (owner 23 Nov): gold HORN button (#bHorn; H/D keys) while in the tuk-tuk, 1.8 s recharge ring: SFX.horn = the owner's own horn recording art/snd/horn.mp3 (his two honks at 4.70-6.12 s of his clip; the loud bit at 7.5 s is a TikTok sound, never use it, highpass + denoise, 12 ms fade in / 0.58 s fade out, loudness-normalised; synth air horn only until it loads) (nothing mixed in); brass bulb horn on the tuk-tuk's front pillar squeezes, the tuk-tuk rocks back; the shockwave is see-through sound waves that bend the picture behind them (drawHorns after the sparks: copies the canvas into WARP, then warpRing() magnifies the strip under each ring sector by sector with its own wobble, glassBand() adds a faint glassy crest; one big wave + two ripples rolling right, small waves pumping out of the horn; no drawn lines) rolls right at 1100 px/s across the screen: zappers shatter (ZAPPED +£2), flying rockets are blown back (BLOWN AWAY +£2), rockets still on their warning are cancelled when it reaches the edge (ROCKET CANCELLED! +£2), lasers shut off (LASER OFF +£2), people in its path are knocked flat (+£1 each). Tip 'HIT HORN TO BLAST HAZARDS!' the first time. Tuk-tuk double jump (owner 23 Nov): a second tap in the air (veh.dj, reset on landing) boosts it again with a thruster burst (veh.dbl), enough to reach the top of the screen (ceiling clamp CEIL + 84); hold still slows the fall. Tuk-tuk is laser-proof (tukLaser: sparks crackle over it, 'LASER-PROOF!' once per laser). Test hooks __jd.horn(), __jd.zap(x,y,len,ang). 23 Nov evening: shop tab JUGAAD renamed back to GADGETS everywhere (no 'jugaad' wording anywhere; tin prize = FREE GADGET!); the Charity Tin gadget is now COIN MAGNET (id still 'tin' so saves keep it, drawn magnet icon); Luton Central Mosque is the default masjid with no first-time picker (change it in Settings); zapper ends = the owner's silver balls with the hole the beam comes out of (art/zapball.webp cut from his sheet, zapBall()/ballCrackle()); the horn pulse makes things short out and break instead of vanishing (wrecks[] in game.js: zapper beams stutter then the balls drop, bounce and smoke; laser boxes flicker out and fall; rockets lose their flame, tumble down and pop on the road; 'SHORTED OUT +£2'); laser warning line has a dark backing, soft glow and thicker moving dashes so it shows on the busy street; horn recording played at full gain; DASH, SHIELD and HORN buttons 30% bigger (96px, 82px on short screens, bottom 22px), still all in the same spot.  Tuk-tuk redrawn (owner 23 Nov evening): glossy paint with a clear-coat band, panel seams, chrome bumper, grab rail, mudguard, plate, stitched canopy, real tyres with chrome rims that blur at speed; headlight = chrome bezel + glowing lens + soft layered cone with flicker and a light pool on the road; thrusters = metal nozzles that glow hot, layered roaring jets (white core, yellow, orange) with shock diamonds, ground glow and embers, bigger blast on the double jump, tiny blue pilot flame in the air (veh.heat). Convoy rarer: first at 2.5-5 min, then every 5-8 min. DASH is hidden (and can't fire) under the power-up title card and in Flappy Kabootar mode.
-- 23 Nov evening (live): tuk-tuk horn fixed (traffic kit's SFX.horn was overwriting it; the tuk-tuk plays SFX.tukHorn = the owner's two honks at 4.7-6.1 s of his clip); Billi back on the carpet/pigeon (code had been swallowed by a comment); zappers = chrome balls drawn in code (zapBallArt, lighting stays upright) with an "eye" (iris + white-hot pupil) facing the other ball, golden beam; tuk-tuk redrawn (glossy paint, chrome, real tyres, glowing nozzles with roaring jets, soft headlight); convoy rarer (first 2.5-5 min, then 5-8 min); POLISH block (POL in game.js): jetpack flame (P.jet), lean + landing squash (hero.sq), cooker rattle/red glow/valve spits, footstep dust, coin streak pitch + sparkles + "+N" + HUD bump + glints, rocket tracking line, chunkier rockets x1.35, laser whir + shake, near-miss slow-mo (SMT), hit-stop (HITT), soot/fizz, coins spill + death zoom, ride debris, mech cracks + joint steam, sandal flip ripple, carpet sparkles, pigeon feathers, pavement pigeons that scatter, speed lines, game-over count-up + NEW BEST + confetti, shop ka-ching + flying coins, mission star, button clicks, home tiles slide in + logo shine + hero bob, every tone pitch varies ±2%; background music removed (owner); plane redrawn (generic white/orange livery, no airline name, gear, lights, drifting exhaust) + plane roar (SFX.planeT) + train rumble/clacks/horn (SFX.trainT); cooker heat bar moved under the money (#heatBar: COOKER / TOO HOT! shaking / COOLING… with smoke puffs); results screen first with RUN AGAIN, tins + Eidi banked (jd_bankT/jd_bankE, open from results or home; banked Eidi "life" = a Second Chance item); first-ever run (no jd_played): tuk-tuk box low at ~8.5 s, then a vertical zapper + "HIT HORN TO BREAK IT!" with the HORN button pulsing; repeat ride pickups skip the title card (jd_seenRides, quickRide; kabootar keeps its own entry); set pieces after 220 m (14%): speed-camera gate with a coin line through the gap, spinning zapper ringed with coins, rocket run (fixY lanes) with coins in the middle lane; STYLE shop tab: Copper Cooker £300, Black Chrome Cooker £400 (art/cookmask.webp recolours only the cooker pixels, ckSheet), Green Steam £200, Pink Steam £250 (SHOP.ck / SHOP.st); Welcome to Luton = the real painted tarmac slope in a grass bank with perspective lettering (welcomeTex warped row by row). Lakri Man (owner's orange log character, name is a placeholder): rigged in hd/logman.js (drawLogman) from the owner's parts sheet cut into art/logman/*.webp (body, near/far upper arm, forearm, hand, thigh, shin, foot, 10 faces); joints have no outline seams (outline discs behind, fill discs over the seams); run cycle, air pose, windmill arms, faces change with what he's doing. New ride 'logman' in RIDES: Hulk-style mutation (drawLogVeh: he shakes, turns orange, stretches, the cooker drops off and bounces away (heroSplit via cookmask), burst of wood chips, Lakri Man grows out with an overshoot; SFX.mutate growl + wood creaks); tap = big leap, tap again in the air = flip leap, hold in the air = windmill arms slow the fall; zappers can't hurt wood ('WOOD DON'T CONDUCT!'), rockets and lasers splinter him; a bit taller than the hero (LMS .096). Title card art/card/logman.webp from his full pose. Handover doc: Jummah-Dash-handover.docx (sent in chat). Test hook window.__lm(key, x) puts a landmark on the street.
+- 23 Nov evening (live): tuk-tuk horn fixed (traffic kit's SFX.horn was overwriting it; the tuk-tuk plays SFX.tukHorn = the owner's two honks at 4.7-6.1 s of his clip); Billi back on the carpet/pigeon (code had been swallowed by a comment); zappers = chrome balls drawn in code (zapBallArt, lighting stays upright) with an "eye" (iris + white-hot pupil) facing the other ball, golden beam; tuk-tuk redrawn (glossy paint, chrome, real tyres, glowing nozzles with roaring jets, soft headlight); convoy rarer (first 2.5-5 min, then 5-8 min); POLISH block (POL in game.js): jetpack flame (P.jet), lean + landing squash (hero.sq), cooker rattle/red glow/valve spits, footstep dust, coin streak pitch + sparkles + "+N" + HUD bump + glints, rocket tracking line, chunkier rockets x1.35, laser whir + shake, near-miss slow-mo (SMT), hit-stop (HITT), soot/fizz, coins spill + death zoom, ride debris, mech cracks + joint steam, sandal flip ripple, carpet sparkles, pigeon feathers, pavement pigeons that scatter, speed lines, game-over count-up + NEW BEST + confetti, shop ka-ching + flying coins, mission star, button clicks, home tiles slide in + logo shine + hero bob, every tone pitch varies ±2%; background music removed (owner); plane redrawn (generic white/orange livery, no airline name, gear, lights, drifting exhaust) + plane roar (SFX.planeT) + train rumble/clacks/horn (SFX.trainT); cooker heat bar moved under the money (#heatBar: COOKER / TOO HOT! shaking / COOLING… with smoke puffs); results screen first with RUN AGAIN, tins + Eidi banked (jd_bankT/jd_bankE, open from results or home; banked Eidi "life" = a Second Chance item); first-ever run (no jd_played): tuk-tuk box low at ~8.5 s, then a vertical zapper + "HIT HORN TO BREAK IT!" with the HORN button pulsing; repeat ride pickups skip the title card (jd_seenRides, quickRide; kabootar keeps its own entry); set pieces after 220 m (14%): speed-camera gate with a coin line through the gap, spinning zapper ringed with coins, rocket run (fixY lanes) with coins in the middle lane; STYLE shop tab: Copper Cooker £300, Black Chrome Cooker £400 (art/cookmask.webp recolours only the cooker pixels, ckSheet), Green Steam £200, Pink Steam £250 (SHOP.ck / SHOP.st); Welcome to Luton = the real painted tarmac slope in a grass bank with perspective lettering (welcomeTex warped row by row). Lakri Man (owner's orange log character, name is a placeholder): rigged in hd/logman.js (drawLogman) from the owner's parts sheet cut into art/logman/*.webp (body, near/far upper arm, forearm, hand, thigh, shin, foot, 10 faces); joints have no outline seams (outline discs behind, fill discs over the seams); run cycle, air pose, windmill arms, faces change with what he's doing. New ride 'logman' in RIDES: Hulk-style mutation (drawLogVeh: he shakes, turns orange, stretches, the cooker drops off and bounces away (heroSplit via cookmask), burst of wood chips, Lakri Man grows out with an overshoot; SFX.mutate growl + wood creaks); tap = big leap, tap again in the air = flip leap, hold in the air = windmill arms slow the fall; zappers can't hurt wood ('WOOD DON'T CONDUCT!'), rockets and lasers splinter him; a bit taller than the hero (LMS .096). Title card art/card/logman.webp from his full pose. Later 23 Nov: browner orange (art/logman/*.webp recoloured from art/logman_orig/, joint fills #d16c2a/#ad4f1b); jump, flip, then a double flip (veh.jn up to 3, 'TRIPLE!'); holds the owner's long bat (art/logman/n_bat.webp, hand + bat cut from his sheet, bat stretched 1.55x) in place of his near hand; BAT button (#bBat, same spot/size as Shield/Dash/Horn; B/S keys): wind-up, whip and follow-through (batAngle), the forward whip smashes zappers (SMASHED!), sends rockets back (HOME RUN!) and knocks out lasers at his height (BATTED!), short hit-stop; limits: bat snaps after 6 hits (BAT_HP), and he only lasts 24 s (LOG_LIFE): creaks and cracks for the last 5 s, then logRevert() splinters him back into the hero (not a death). Handover doc: Jummah-Dash-handover.docx (sent in chat). Test hook window.__lm(key, x) puts a landmark on the street.
 - Public link (owner 22 Nov): smrgraphics.co.uk/jummahdash (also /jummah-dash) → /jummahdash/demo/ (root .htaccess rule, plus jummahdash/index.php + jummahdash/.htaccess DirectoryIndex as a fallback for /jummahdash/).
 - Admin mode (owner, 23 Nov, live): in jd-extra.js (same rule: keep it when deploying from the work folder; deploy.py restamps its ?h= and sw.js entry). Settings → ADMIN MODE → on-screen keypad; code 1279 (JD_ADMIN_CODE in jummahdash/api.php, a code the owner can give to testers) or the owner's SMR Admin PIN (that phone is then left out of the stats); checked by api.php?a=admin_pin with the SMR Admin login limits. Unlocks on that phone (localStorage jd_admin): every outfit and gadget, 3 slots, 99 head starts + second chances, bank £999,999 (game.js keeps bank private, so it's written to jd_bank and the page reloads; refills itself when under £500k), pink ADMIN button under the top-right buttons on the home screen, EXIT button during a run (reloads to the home screen). Panel: Start every run with (nothing / tuk-tuk / magic carpet / Flappy Kabootar / gravity sandals / Hoover Mech / head start 500 / 1000, via __jd.veh / __jd.boost when the run starts), Extras (can't die = window.__god, ride box every 10 s via __jd.gift, coin magnet = charity tin on), wear any outfit, gadgets on/off, Open shop, Top up, Turn admin off (double tap; restores the progress saved before admin mode, jd_admin_snap). Owner rule: every new ride, power-up, outfit or gadget added to the game goes into START / OUTFITS / GADGETS in jd-extra.js too.
 - Stats + Recommend a place (added 22 Nov from the Kaya/admin chat, NOT from the Jummah Dash work folder): jummahdash/demo/jd-extra.js, loaded by one line `<script src="jd-extra.js?h=…">` after game.js in game.html. **When deploying from the work folder, copy jd-extra.js into it and keep that script line in game.html** (or deploy.py will drop them). It only hooks in from outside (DOM + window.__jd): random device id jd_vid (localStorage + cookie), source from ?s= / in-app browser / home screen / referrer, events to /jummahdash/api.php?a=ev (visit, play when __jd.state turns 'intro', over = #over shown with val = metres from #oD and extra = coins from #oC, share/hs_open/smr/shop/outfit from taps on #bShare/#bInst/#smrOpen/#bShop/#bOutfit, install, rec); adds a RECOMMEND A PLACE tile (map + pin icon) at the bottom of the home menu column (tiles share the column height, so the others shrink a little) opening #recBox (game-style sheet: place name, where, anything else, SEND/CLOSE, thank-you card); hidden when SMR Admin → Games → Jummah Dash → Settings turns it off (api cfg show_recommend). Server: jummahdash/api.php (outside demo/ so deploys never touch it; tables jd_events, jd_recs, jd_meta, jd_owner; rec = 6/hour per visitor + push "Jummah Dash: new place" → /demo-admin/#jummah) and jummahdash/admin.php (Stats / Inbox / Settings like Flappy; best runs table; tag tip for ?s=).
